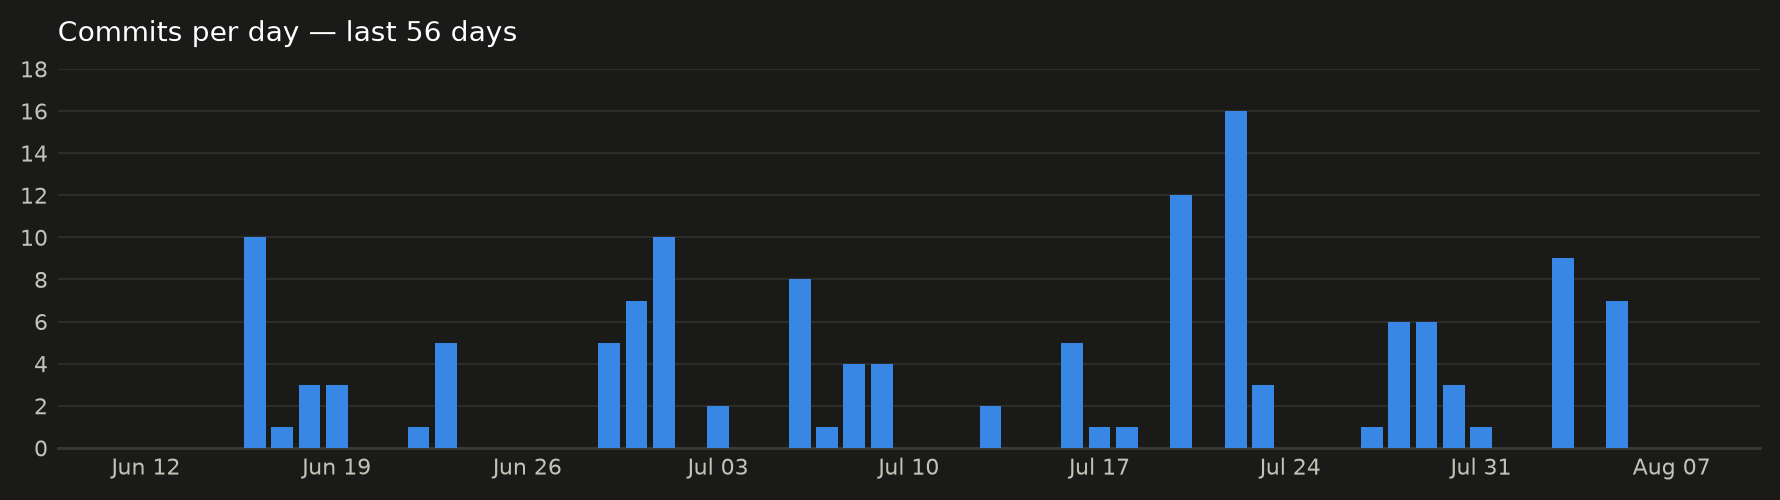
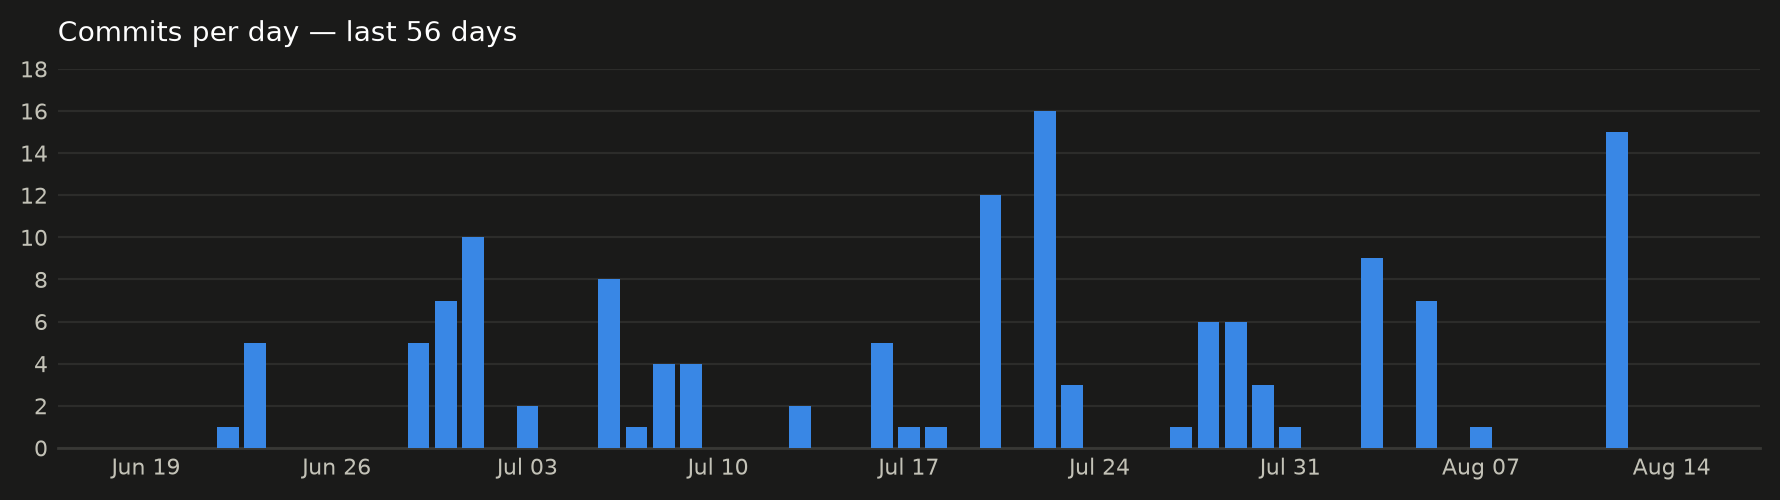
chore: update org README stats

diff --git a/profile/README.md b/profile/README.md
@@ -35,7 +35,7 @@ Placeholder: TieTech Innovations builds ___. We focus on ___ for ___.
 ## 📊 Commit activity
 
 <!-- STATS:START -->
-In the last 56 days: **137** commits across **10/53** active repos (**52** private).
+In the last 56 days: **136** commits across **9/53** active repos (**52** private).
 
 <picture>
   <source media="(prefers-color-scheme: dark)" srcset="assets/commit-graph-dark.png">
@@ -44,23 +44,23 @@ In the last 56 days: **137** commits across **10/53** active repos (**52** priva
 
 **Most active repos**
 
-- `ledger-pro-backend` — 30 commits
-- `.github` — 22 commits
-- `staff_complaint_mobile` — 21 commits
+- `ledger-pro-backend` — 44 commits
+- `.github` — 23 commits
 - `chatbot-saas` — 18 commits
-- `user_complaint_mobile` — 16 commits
+- `staff_complaint_mobile` — 17 commits
+- `user_complaint_mobile` — 13 commits
 
 **Top contributors**
 
-- majidimtiaz3 — 49 commits
 - abdullahumar2002 — 40 commits
+- majidimtiaz3 — 39 commits
 - ZainMustafaaa — 28 commits
-- sanaejaz — 11 commits
-- github-actions[bot] — 7 commits
+- MajidImtiaz — 10 commits
+- sanaejaz — 10 commits
 
 **Primary languages**: `JavaScript`, `TypeScript`, `Python`, `Solidity`, `Kotlin`
 <!-- STATS:END -->
 
 <div align="center">
-<sub>Last updated: 2026-08-07 16:55 UTC</sub>
+<sub>Last updated: 2026-08-14 16:54 UTC</sub>
 </div>
